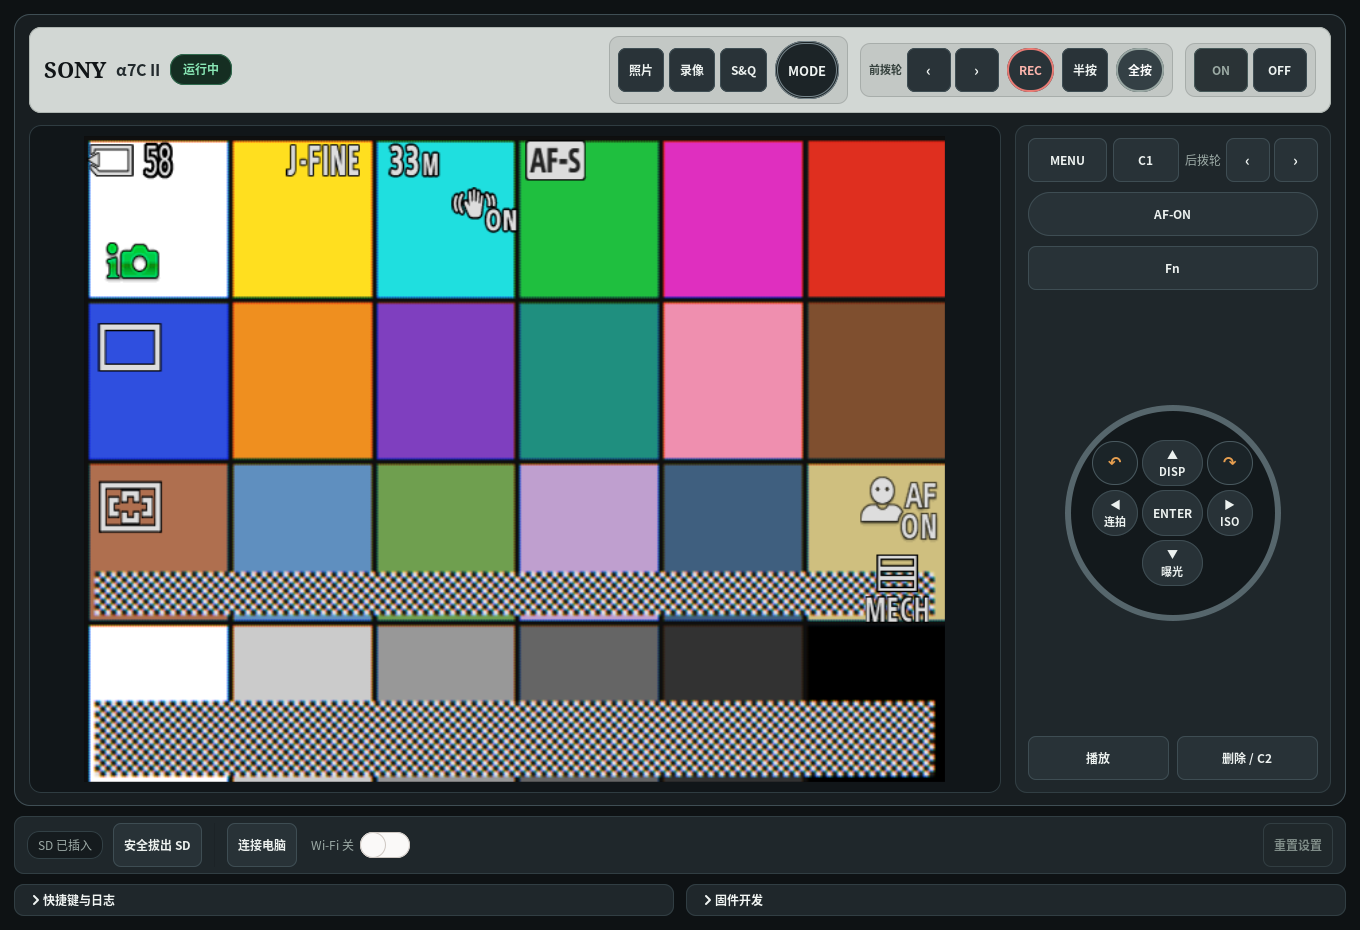
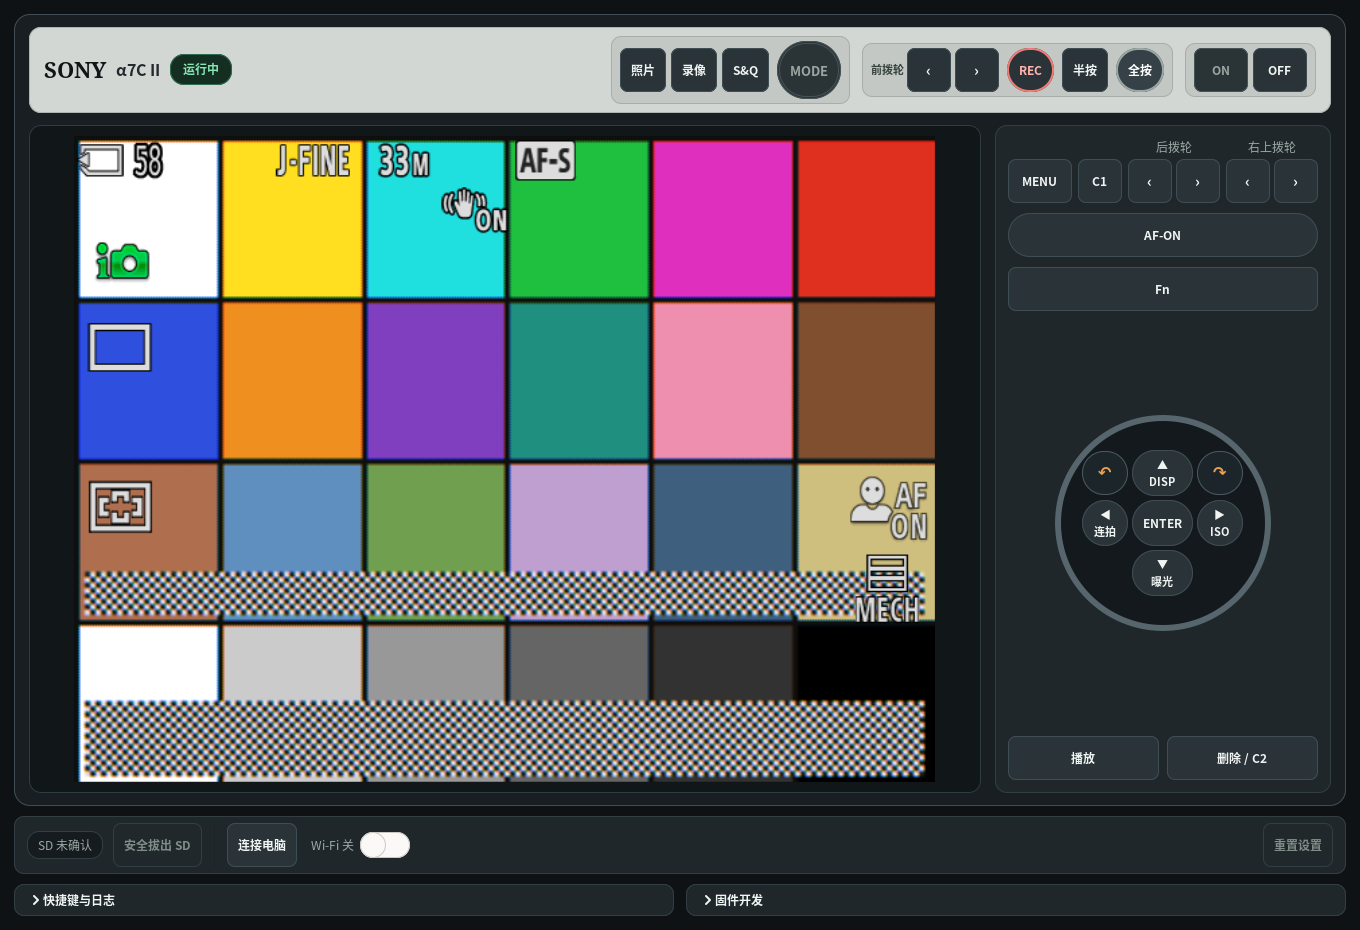
Add top-right dial (TOP_LEFT/TOP_RIGHT) to CameraUI Row 1 and update screenshot

diff --git a/report/camera-input-coverage/input_bindings.py b/report/camera-input-coverage/input_bindings.py
@@ -16,6 +16,7 @@ HOST_KEYS.update({
     'h': ('SHUTTER_HALF', None), 's': ('SHUTTER', None),
     'q': ('FRONT_LEFT', None), 'e': ('FRONT_RIGHT', None),
     '[': ('REAR_LEFT', None), ']': ('REAR_RIGHT', None),
+    '-': ('TOP_LEFT', None), '=': ('TOP_RIGHT', None),
     ',': ('CONTROL_LEFT', None), '.': ('CONTROL_RIGHT', None),
     '1': ('MODE_STILL', None), '2': ('MODE_MOVIE', None), '3': ('MODE_SQ', None),
 })
@@ -24,7 +25,8 @@ HOST_KEYS.update({f'F{number}': ('MODE', position)
 PHYSICAL_CONTROLS = ('MENU', 'C1', 'C2', 'SHUTTER_HALF', 'SHUTTER', 'REC',
                      'AF_ON', 'FN', 'ENTER', 'UP', 'DOWN', 'LEFT', 'RIGHT',
                      'CONTROL_LEFT', 'CONTROL_RIGHT', 'FRONT_LEFT', 'FRONT_RIGHT',
-                     'REAR_LEFT', 'REAR_RIGHT', 'MODE_STILL', 'MODE_MOVIE', 'MODE_SQ',
+                     'REAR_LEFT', 'REAR_RIGHT', 'TOP_LEFT', 'TOP_RIGHT',
+                     'MODE_STILL', 'MODE_MOVIE', 'MODE_SQ',
                      'MODE', 'PLAYBACK', 'DELETE')
 UNSUPPORTED = {
     'EXPOSURE_COMP': 'No source-closed independent contact; do not substitute DOWN or a rear-dial event.',
@@ -78,7 +80,7 @@ def validate_request(request):
         elif entry['positions']:
             raise ValueError('Mode dial requires a position')
     elif op == 'rotate':
-        if (request['dial'] not in ('FRONT', 'REAR', 'CONTROL')
+        if (request['dial'] not in ('FRONT', 'REAR', 'TOP', 'CONTROL')
                 or type(request['ticks']) is not int or not 1 <= abs(request['ticks']) <= MAX_TICKS):
             raise ValueError('Rotation must contain 1..32 signed ticks of a known dial')
     elif op == 'position':
@@ -332,7 +334,7 @@ class InputBindings:
         return self.release(source)
 
     def scroll(self, dial, delta):
-        if dial not in ('FRONT', 'REAR', 'CONTROL') or not math.isfinite(delta):
+        if dial not in ('FRONT', 'REAR', 'TOP', 'CONTROL') or not math.isfinite(delta):
             raise ValueError('Invalid dial scroll')
         total = self.scroll_remainder.get(dial, 0.0) + delta
         ticks = max(-MAX_TICKS, min(MAX_TICKS, math.trunc(total)))
@@ -430,7 +432,8 @@ def attach_gtk(ui):
             return False
         shortcut = {'Up': 'ArrowUp', 'Down': 'ArrowDown', 'Left': 'ArrowLeft', 'Right': 'ArrowRight',
                     'Return': 'Enter', 'KP_Enter': 'Enter', 'Page_Up': 'PageUp', 'Page_Down': 'PageDown',
-                    'bracketleft': '[', 'bracketright': ']', 'comma': ',', 'period': '.'}.get(key, key)
+                    'bracketleft': '[', 'bracketright': ']', 'minus': '-', 'equal': '=',
+                    'comma': ',', 'period': '.'}.get(key, key)
         if len(shortcut) == 1:
             shortcut = shortcut.lower()
         return report(lambda: bindings.key_press(shortcut, event.hardware_keycode))
@@ -628,7 +631,7 @@ def attach_gtk(ui):
     scroll_widgets = dict(ui.wheel_widgets)
     for name, button in ui.buttons.items():
         dial = name.rsplit('_', 1)[0]
-        if dial in ('FRONT', 'REAR', 'CONTROL'):
+        if dial in ('FRONT', 'REAR', 'TOP', 'CONTROL'):
             scroll_widgets[button] = dial
     for widget, dial in scroll_widgets.items():
         widget.disconnect_by_func(ui._scroll)

diff --git a/runtime/analysis/camera_ui.py b/runtime/analysis/camera_ui.py
@@ -87,6 +87,7 @@ KEY_NAMES = dict(MENU='MENU', C1='C1', AF_ON='AF-ON', FN='Fn',
                  REC='REC', SHUTTER_HALF='半按', SHUTTER='全按', MODE='MODE',
                  FRONT_LEFT='前拨轮左转', FRONT_RIGHT='前拨轮右转',
                  REAR_LEFT='后拨轮左转', REAR_RIGHT='后拨轮右转',
+                 TOP_LEFT='右上拨轮左转', TOP_RIGHT='右上拨轮右转',
                  CONTROL_LEFT='控制轮左转', CONTROL_RIGHT='控制轮右转',
                  MODE_STILL='照片', MODE_MOVIE='录像', MODE_SQ='S&Q')
 
@@ -318,17 +319,18 @@ class CameraUI:
             button.get_style_context().add_class(style)
         button.connect('clicked', lambda _: self.send(name))
         prefix = name.rsplit('_', 1)[0]
-        if prefix in ('FRONT', 'REAR', 'CONTROL'):
+        if prefix in ('FRONT', 'REAR', 'TOP', 'CONTROL'):
             button.add_events(Gdk.EventMask.SCROLL_MASK | Gdk.EventMask.SMOOTH_SCROLL_MASK)
             button.connect('scroll-event', self._scroll, prefix)
         self.buttons[name] = button
         return button
 
     def _dial(self, title, prefix, horizontal=False):
-        group = Gtk.Box(orientation=Gtk.Orientation.HORIZONTAL if horizontal else Gtk.Orientation.VERTICAL, spacing=5)
-        group.set_valign(Gtk.Align.CENTER)
+        group = Gtk.Box(orientation=Gtk.Orientation.HORIZONTAL if horizontal else Gtk.Orientation.VERTICAL, spacing=3)
+        group.set_valign(Gtk.Align.CENTER if horizontal else Gtk.Align.END)
         if title:
             lbl = label(title, 'hint')
+            lbl.set_halign(Gtk.Align.CENTER)
             lbl.set_valign(Gtk.Align.CENTER)
             group.pack_start(lbl, False, False, 0)
         row = Gtk.Box(spacing=4)
@@ -359,13 +361,18 @@ class CameraUI:
 
         controls = Gtk.Box(orientation=Gtk.Orientation.VERTICAL, spacing=10)
         controls.get_style_context().add_class('controls-panel')
-        controls.set_size_request(316, -1)
+        controls.set_size_request(336, -1)
 
-        # 第一行：MENU / C1 / 后拨轮（右上拨轮）
+        # 第一行：MENU / C1 / 后拨轮 / 右上拨轮
         row1 = Gtk.Box(spacing=6)
-        row1.pack_start(self._button('MENU', 'MENU'), True, True, 0)
-        row1.pack_start(self._button('C1', 'C1'), True, True, 0)
-        row1.pack_end(self._dial('后拨轮', 'REAR', horizontal=True), False, False, 0)
+        menu_btn = self._button('MENU', 'MENU')
+        menu_btn.set_valign(Gtk.Align.END)
+        c1_btn = self._button('C1', 'C1')
+        c1_btn.set_valign(Gtk.Align.END)
+        row1.pack_start(menu_btn, True, True, 0)
+        row1.pack_start(c1_btn, False, False, 0)
+        row1.pack_start(self._dial('后拨轮', 'REAR'), False, False, 0)
+        row1.pack_start(self._dial('右上拨轮', 'TOP'), False, False, 0)
         controls.pack_start(row1, False, False, 0)
 
         # 第二行：AF-ON

diff --git a/runtime/analysis/menu_live.py b/runtime/analysis/menu_live.py
@@ -35,6 +35,10 @@ KEY_DEFINITIONS = {
                       native='<', shortcuts=['PageUp'], note='单次 -1024；原P档HUD已见曝光补偿0.0→-0.3，其它上下文待验'),
     'REAR_RIGHT': dict(label='后拨轮右转', code='0x10000013', status='0x400',
                        native='>', shortcuts=['PageDown'], note='单次 +1024；原P档HUD已见曝光补偿-0.3→0.0，其它上下文待验'),
+    'TOP_LEFT': dict(label='右上拨轮左转', code='0x10000016', status='0xfffffc00',
+                     note='原始码→UIBIZ 2ea已核；拍摄上下文功能未实测'),
+    'TOP_RIGHT': dict(label='右上拨轮右转', code='0x10000016', status='0x400',
+                      note='原始码→UIBIZ 2ea已核；拍摄上下文功能未实测'),
     'CONTROL_LEFT': dict(label='控制轮左转',code='0x1000001d',status='0xfffffc00',note='原始码→UIBIZ 2f6已核；拍摄上下文功能未实测'),
     'CONTROL_RIGHT': dict(label='控制轮右转',code='0x1000001d',status='0x400',note='原始码→UIBIZ 2f6已核；拍摄上下文功能未实测'),
     'FRONT_LEFT': dict(label='前拨轮左转',code='0x1000001c',status='0xfffffc00',note='原始码→UIBIZ 2f5已核；拍摄上下文功能未实测'),

diff --git a/runtime/analysis/test_camera_ui.py b/runtime/analysis/test_camera_ui.py
@@ -355,7 +355,7 @@ class GTKTests(unittest.TestCase):
 
     def test_three_independent_wheel_symbols(self):
         self.running()
-        for prefix in ('FRONT', 'REAR', 'CONTROL'):
+        for prefix in ('FRONT', 'REAR', 'TOP', 'CONTROL'):
             for direction in ('LEFT', 'RIGHT'):
                 name = prefix + '_' + direction
                 self.vm.value['controls'][name]['available'] = True
@@ -444,7 +444,7 @@ class GTKTests(unittest.TestCase):
 
     def test_real_scroll_routes_front_and_rear_separately(self):
         self.running()
-        for prefix in ('FRONT', 'REAR'):
+        for prefix in ('FRONT', 'REAR', 'TOP'):
             self.vm.value['controls'][prefix + '_RIGHT']['available'] = True
             self.ui.update(self.vm.status())
             button = self.ui.buttons[prefix + '_RIGHT']

diff --git a/runtime/analysis/menu_ui.py b/runtime/analysis/menu_ui.py
@@ -69,7 +69,7 @@ class NativeControls:
         for name in ('MODE_STILL','MODE_MOVIE','MODE_SQ'):modes.pack_start(self._button(name),True,True,0)
         body.pack_start(modes,False,False,0)
         wheels = Gtk.Box(spacing=18)
-        for title, left, right in [('前拨轮', 'FRONT_LEFT', 'FRONT_RIGHT'), ('后拨轮', 'REAR_LEFT', 'REAR_RIGHT')]:
+        for title, left, right in [('前拨轮', 'FRONT_LEFT', 'FRONT_RIGHT'), ('后拨轮', 'REAR_LEFT', 'REAR_RIGHT'), ('右上拨轮', 'TOP_LEFT', 'TOP_RIGHT')]:
             group = Gtk.Box(orientation=Gtk.Orientation.VERTICAL, spacing=5)
             text = Gtk.Label(label=title + ' · 未验证'); text.get_style_context().add_class('warning')
             group.pack_start(text, False, False, 0)
